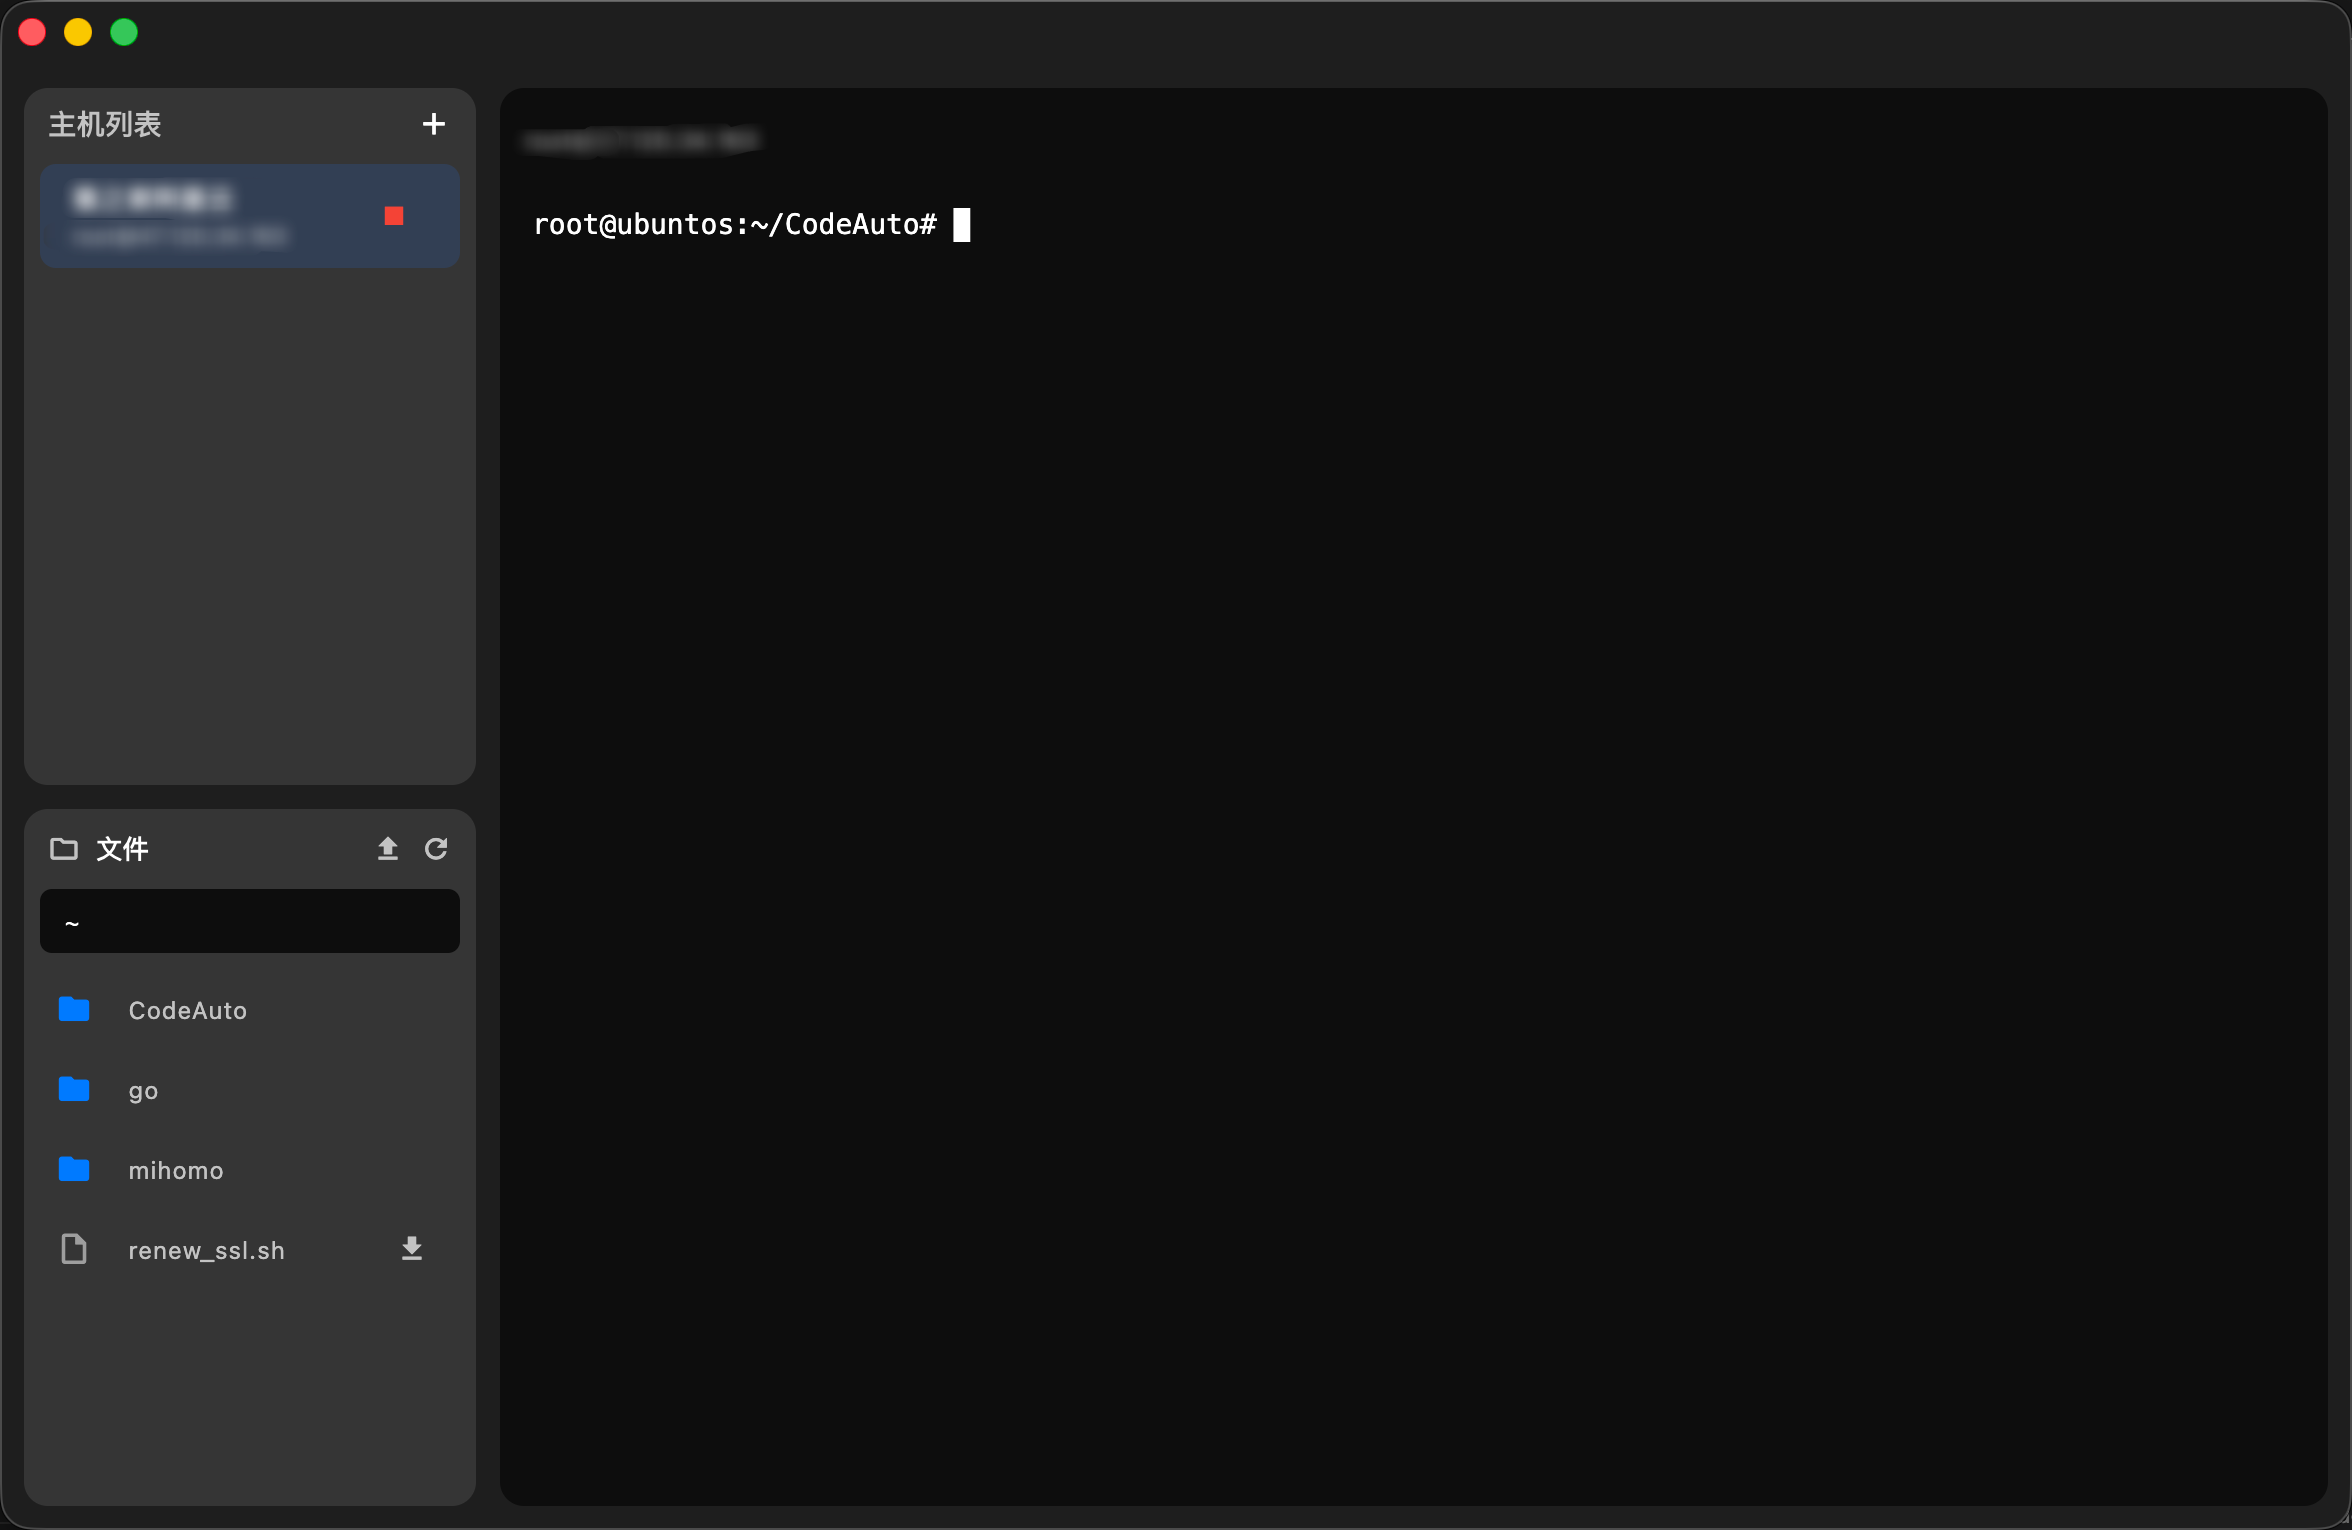
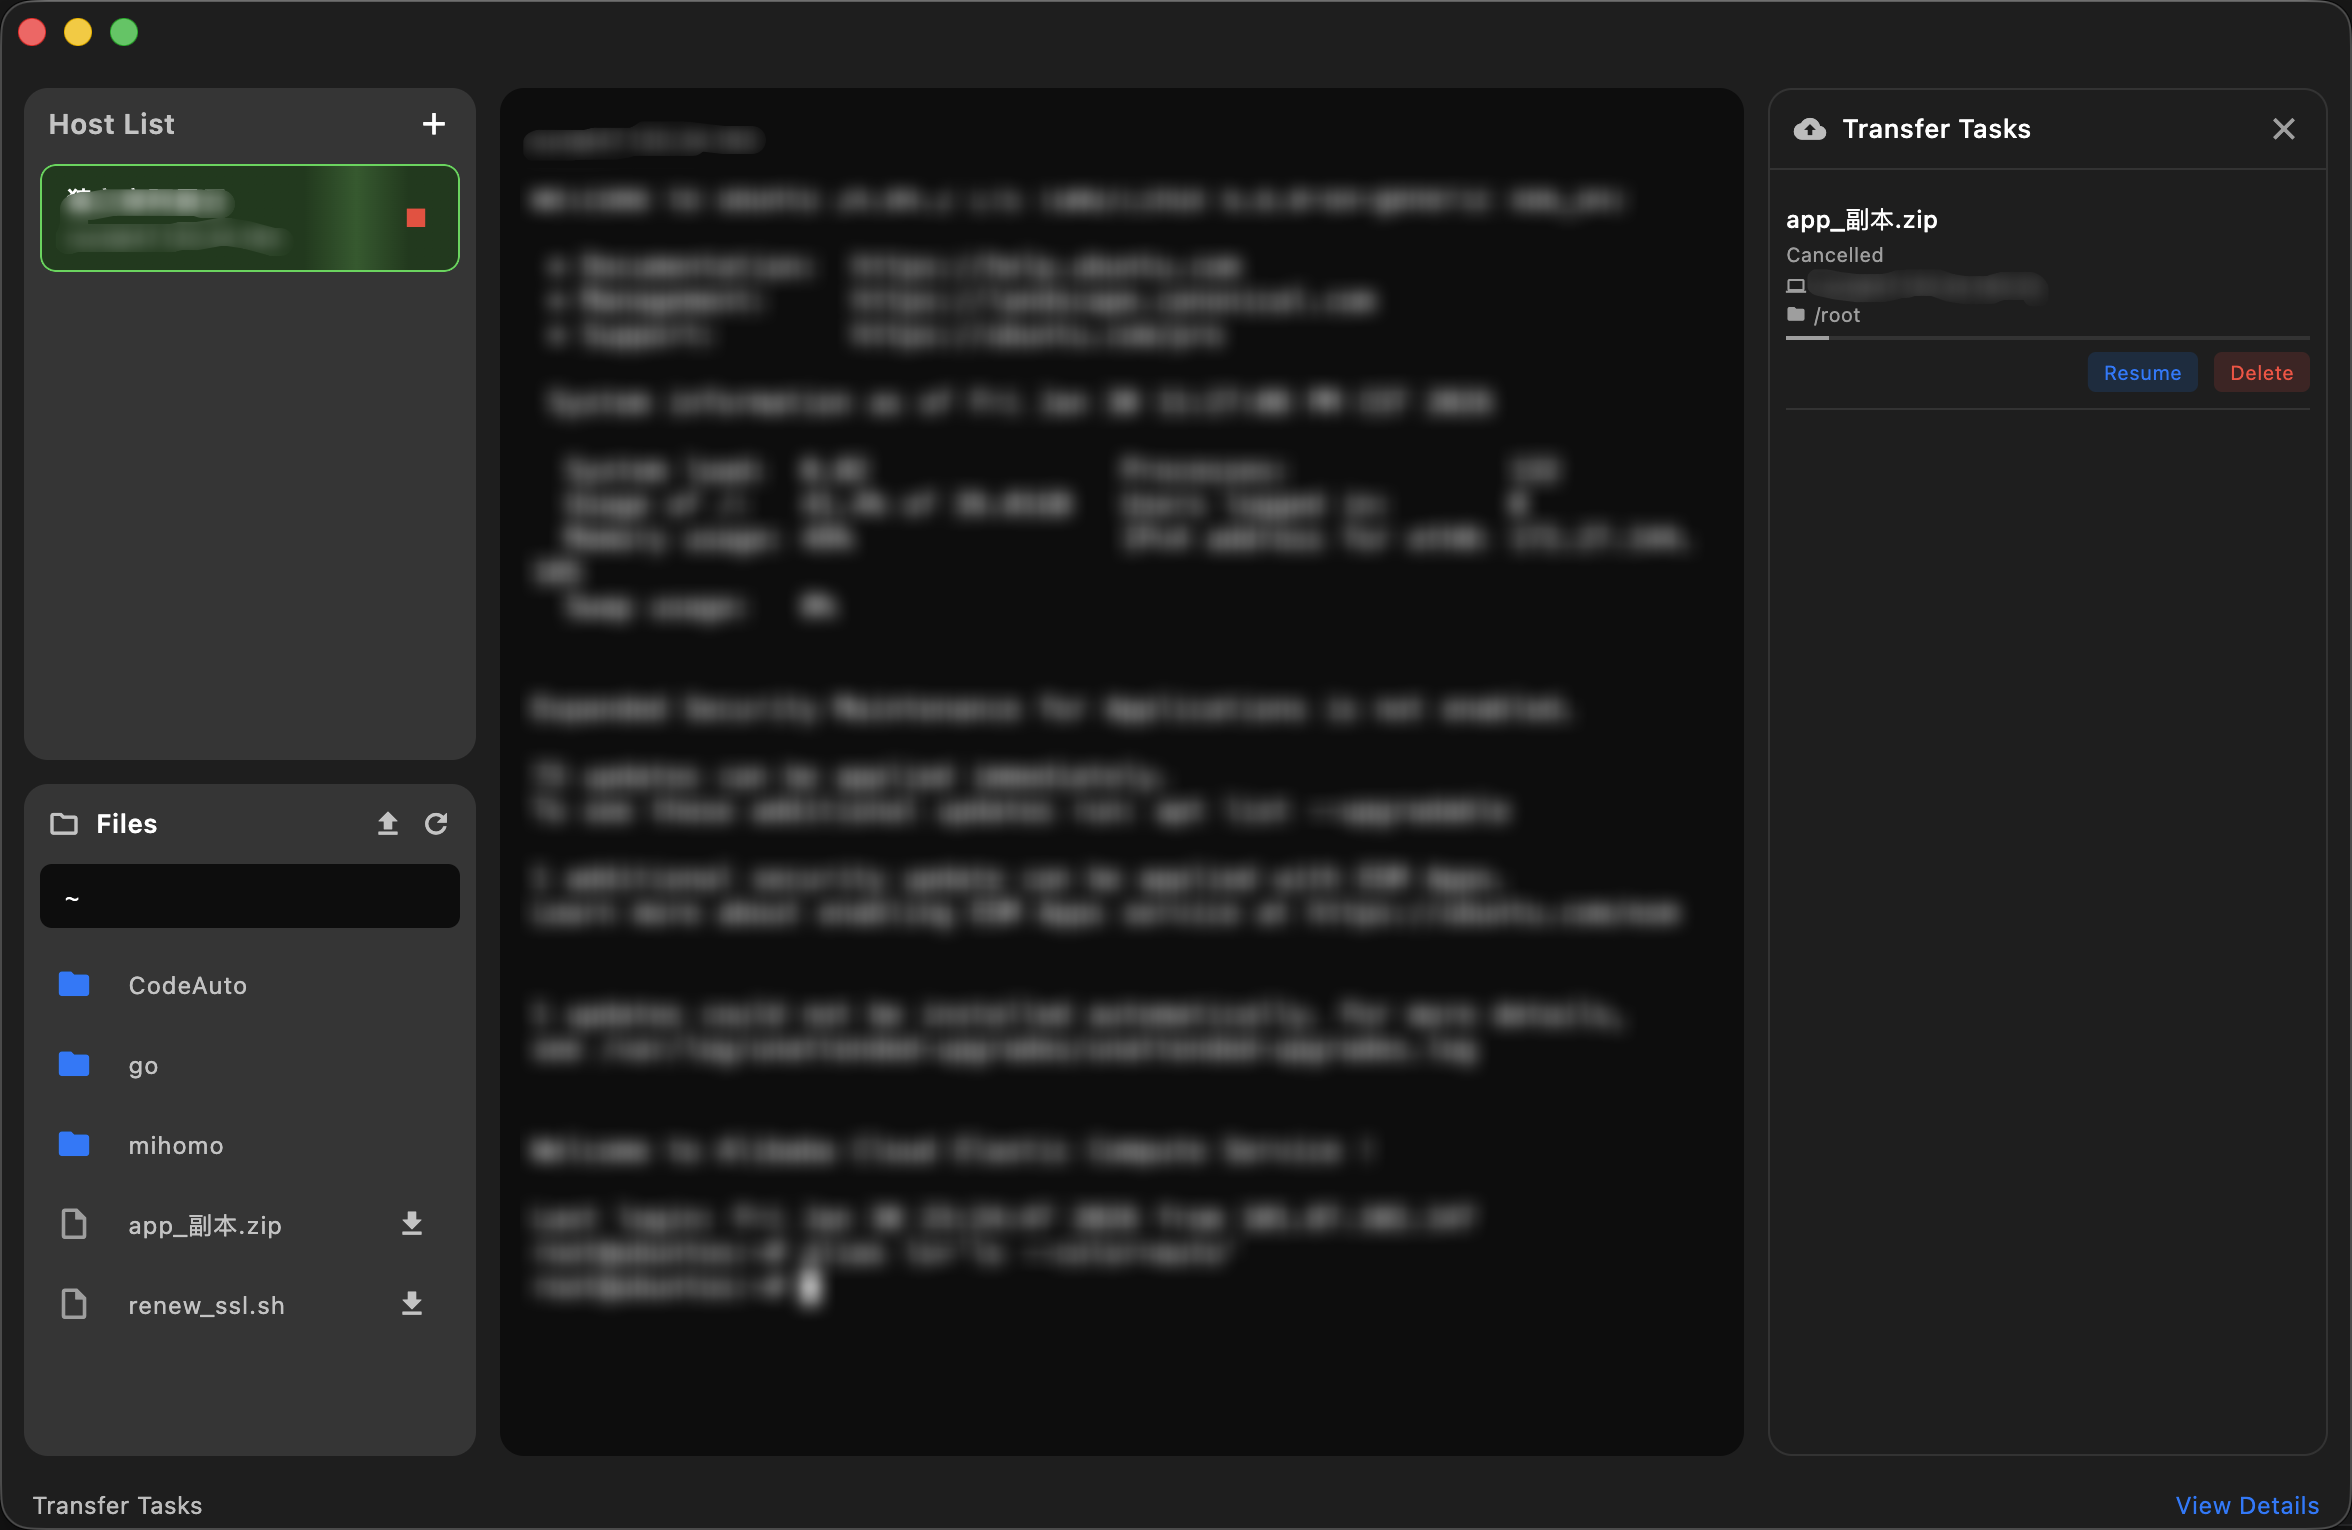
添加多文件上传，断点续传

diff --git a/README.md b/README.md
@@ -21,11 +21,7 @@ A simple and elegant macOS SSH terminal client.
 
 **Menu Bar** → **Language** → Select **English** or **中文**
 
-### 📋 Roadmap
-
-- [ ] Resumable file transfers
-
-### 📦 Installation
+###  Installation
 
 Download the DMG file and drag it to the Applications folder.
 
@@ -69,10 +65,6 @@ Updates are released periodically.
 ### 🌐 切换语言
 
 **菜单栏** → **Language** → 选择 **English** 或 **中文**
-
-### 📋 下版本任务清单
-
-- [ ] 断点续传
 
 ### 📦 安装
 
